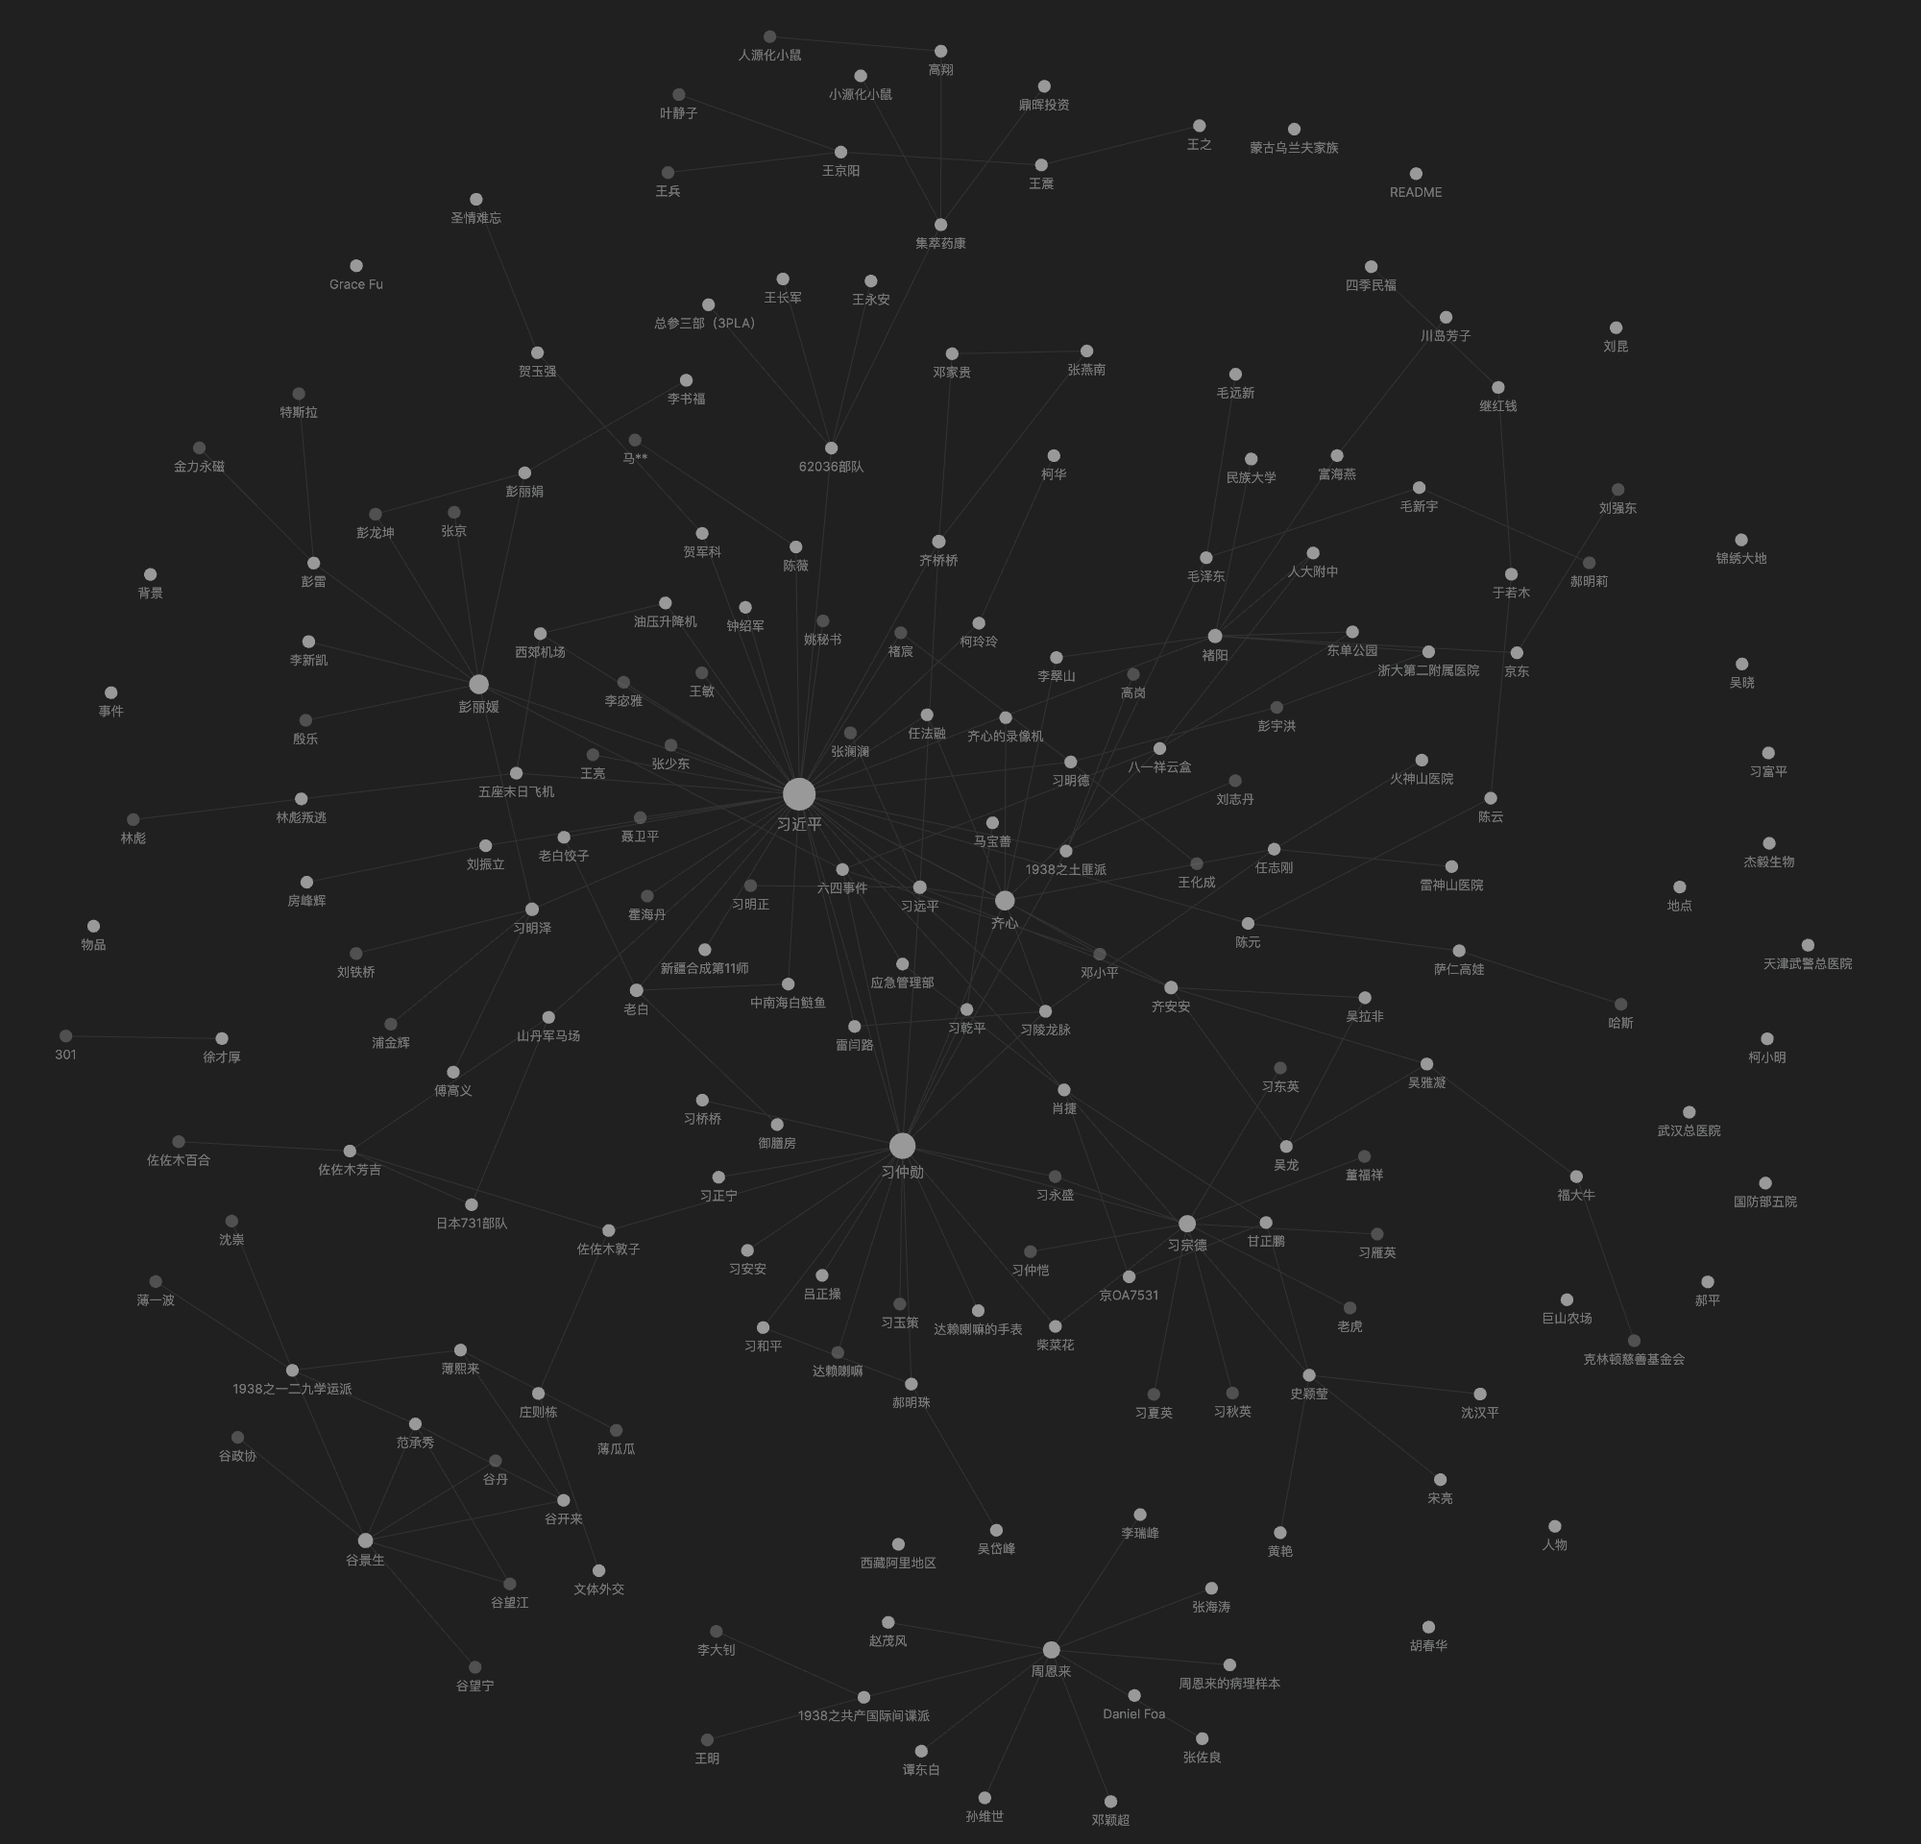
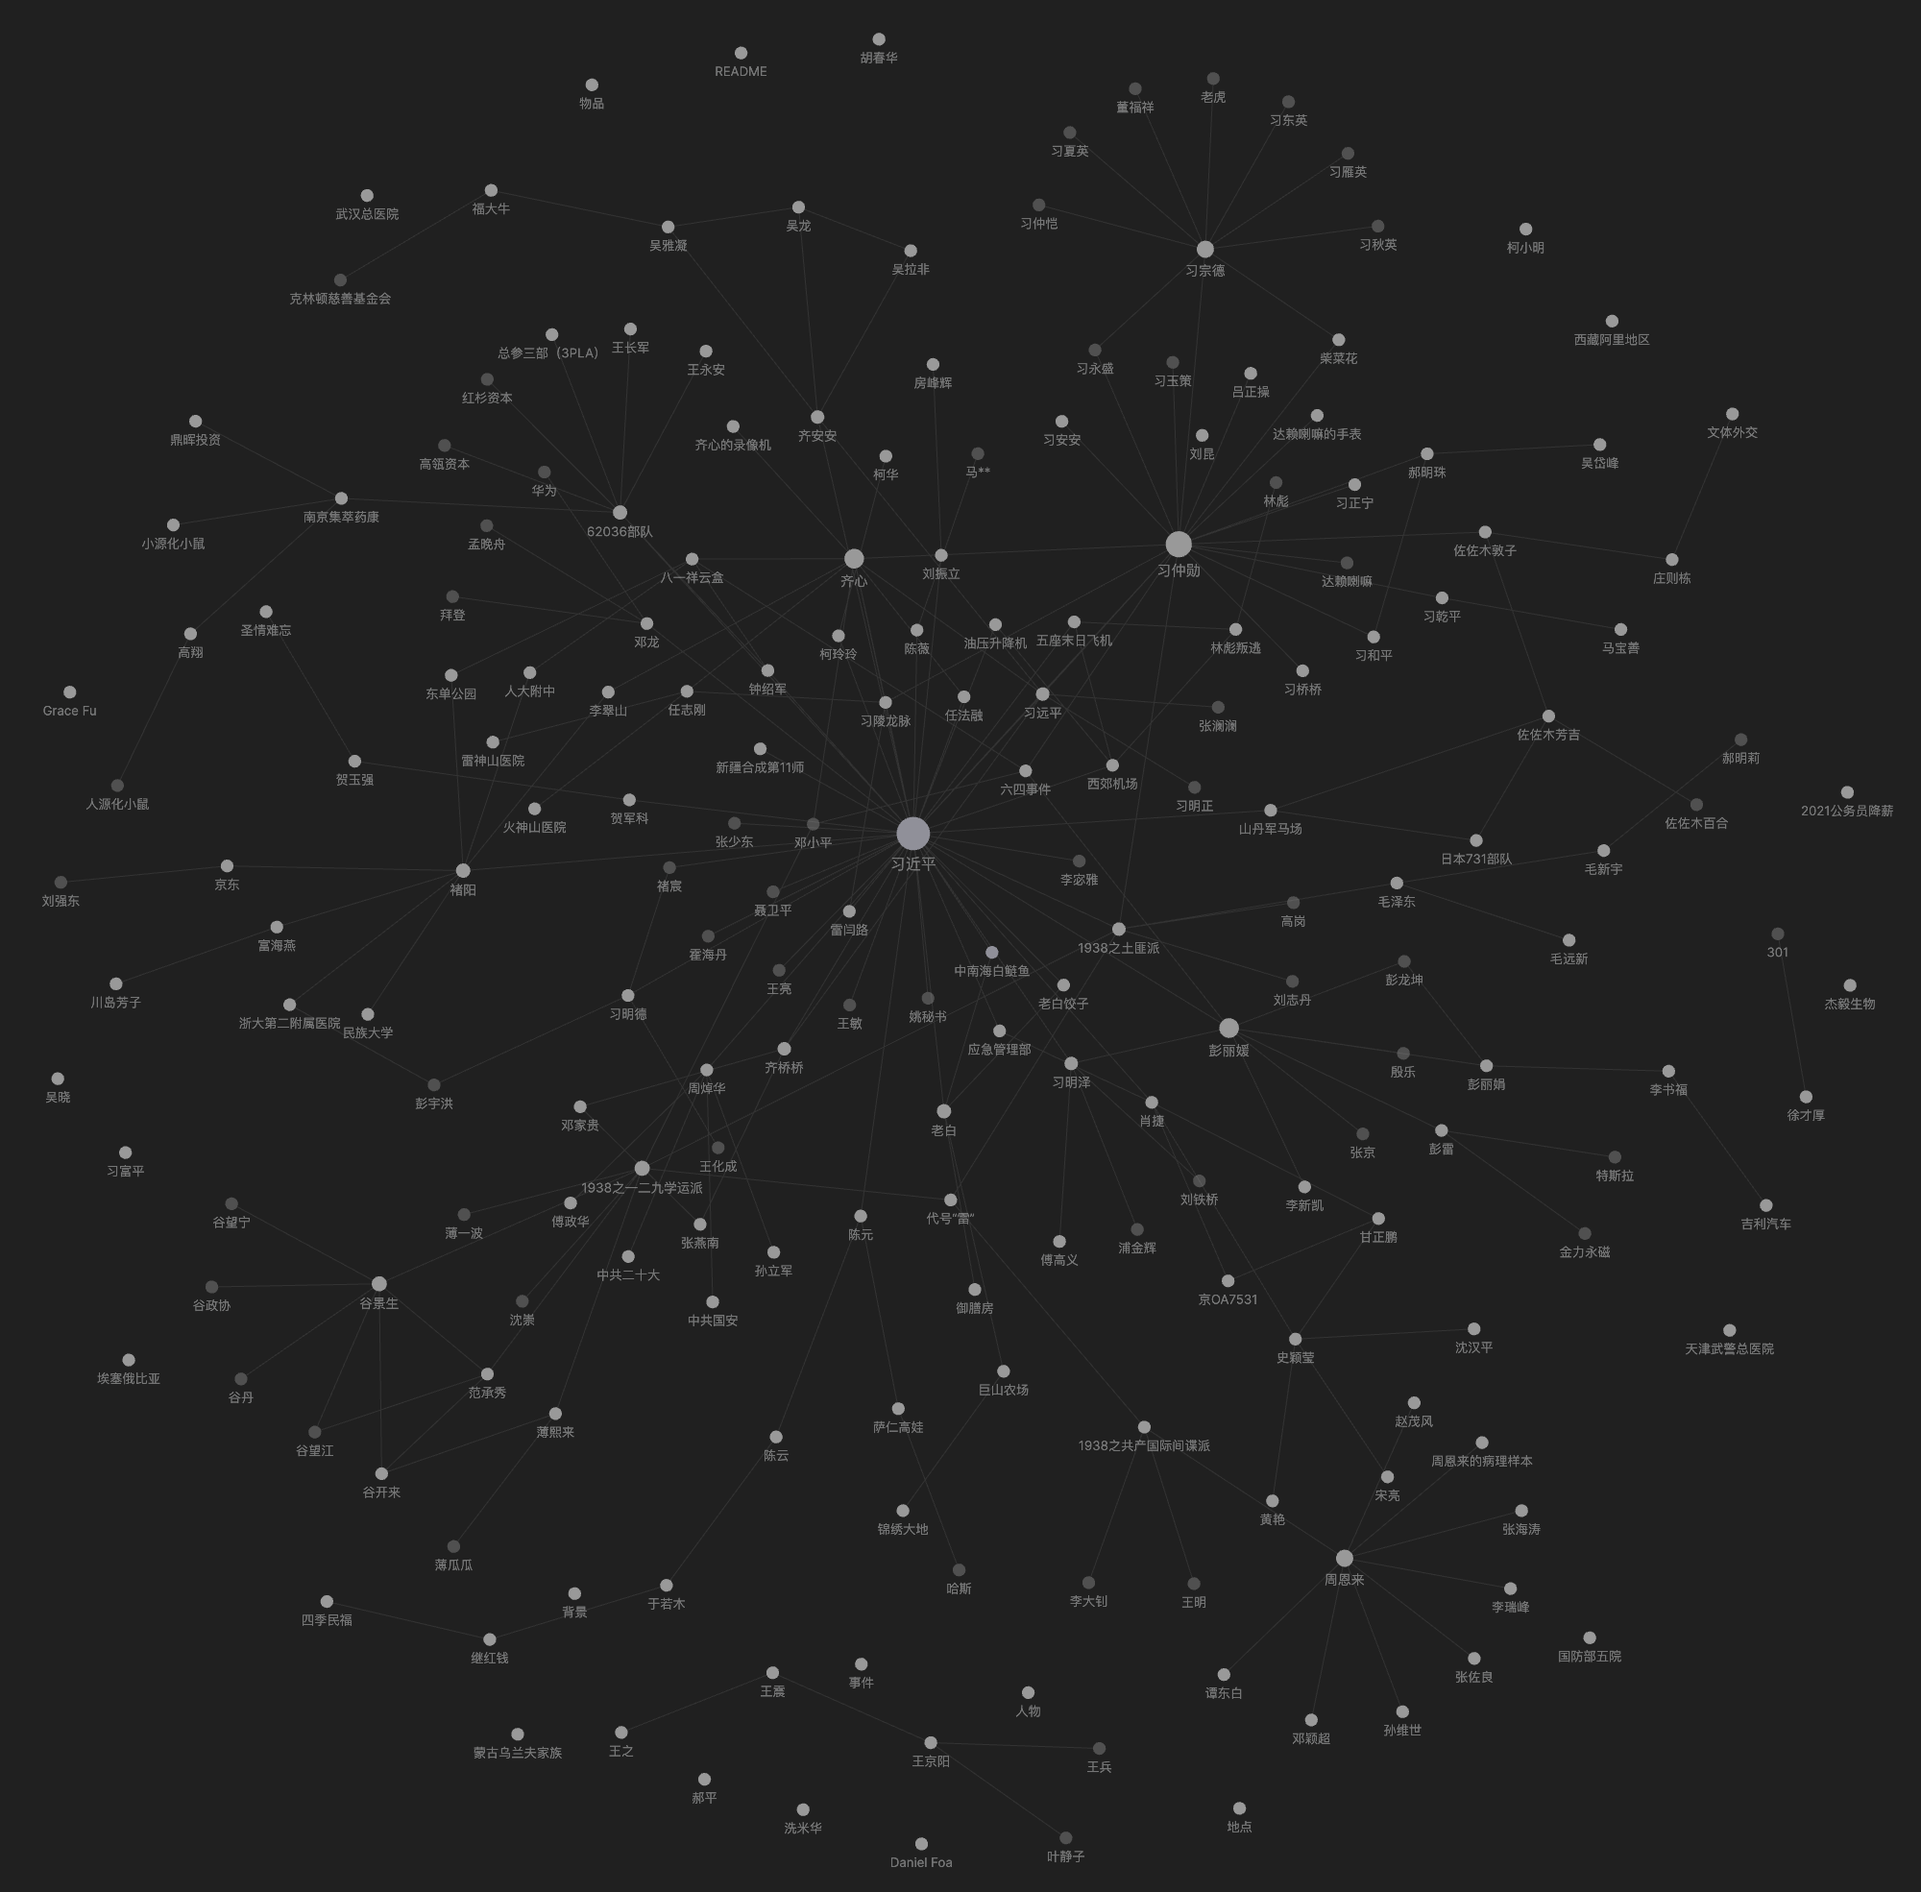
add

diff --git a/背景/62036部队.md b/背景/62036部队.md
@@ -1,0 +1,28 @@
+标签： #背景
+
+姓名：
+62036部队
+
+背景：
+- 61 - 总参，62 - 总后
+- 中共的“生化部队”——战略支援部队特色医学中心
+
+描述：
+
+社会关系：
+- 由[[钟绍军]]直接领导，以便向[[习近平]]直接请示
+- 卫生勤务部长[[王长军]]
+- 毒理和生化药理研究室主任[[王永安]]
+- 包含范围：
+	- 十一个所
+	- 一个动物中心
+	- 一个仪器中心
+	- 307医院
+- 股东包含 [[高瓴资本]] [[红杉资本]]
+
+重要事件：
+- 已于2020年被取消番号
+
+重要地点：
+
+其他：

diff --git a/人物/邓龙.md b/人物/邓龙.md
@@ -1,0 +1,18 @@
+标签： #人物
+
+姓名：
+邓龙
+
+背景：
+- 美国龙胜行集团公司、美国中国城超市集团公司及纽约国际影视制作公司董事长兼总裁，还是闽南同乡会会长、美国华人企业家协会创始人之一
+
+描述：
+
+社会关系：
+
+重要事件：
+- 因为[[孟晚舟]]事件，[[华为]]和邓联系，邓与[[习近平]]打招呼，习才与[[拜登]]要求放人
+
+重要地点：
+
+其他：

diff --git a/人物/周焯华.md b/人物/周焯华.md
@@ -1,0 +1,18 @@
+标签： #人物
+
+姓名：
+周焯华
+
+背景：
+- [[中共国安]] 背景 [[傅政华]] [[孙立军]]
+
+描述：
+
+社会关系：
+
+重要事件：
+- 2021年11月29日，VOA爆其被抓。其本质上是通过佯装打击周，进而打击其背后的势力，此正是[[习近平]]借周之口开始[[中共二十大]]前的维稳。
+
+重要地点：
+
+其他：

diff --git a/背景/代号“雷”.md b/背景/代号“雷”.md
@@ -1,0 +1,18 @@
+标签： #背景
+
+姓名：
+代号“雷”
+
+背景：
+- 一个中共体系内的一个小组织，非党员，非红色家族
+
+描述：
+
+社会关系：
+- 曝光[[1938之土匪派]] [[1938之一二九学运派]] [[1938之共产国际间谍派]]
+
+重要事件：
+
+重要地点：
+
+其他：

diff --git a/背景/1938之一二九学运派.md b/背景/1938之一二九学运派.md
@@ -3,12 +3,14 @@
 名称：
 1938之一二九学运派
 
-来历：
+描述：
+没有明确的民主社会理想，只求社会平衡以便自己捞钱捞名声，但错在相信及屈服于[[1938之土匪派]]
 
 代表：
 - [[谷景生]]
 - [[薄一波]]
 - [[沈崇]]
+- [[邓小平]]
 
 事件：
 

diff --git a/地点/巨山农场.md b/地点/巨山农场.md
@@ -6,10 +6,11 @@ tags: [地点]
 巨山农场
 
 背景：
-- 北京[[巨山农场]]是中南海特贡基地
+- 北京[[巨山农场]]是中南海特贡基地，由[[锦绣大地]]负责打理
 
 相关事件：
 
 位置信息：
 
 其他：
+- [[老白]]

diff --git a/背景/总参三部（3PLA）.md b/背景/总参三部（3PLA）.md
@@ -1,16 +1,14 @@
-标签： #人物
+标签： #背景
 
 姓名：
-谷开来
+总参三部（3PLA）
 
 背景：
 
 描述：
 
 社会关系：
-- 父亲[[谷景生]]
-- 母亲[[范承秀]]
-- 配偶[[薄熙来]]
+- [[62036部队]]
 
 重要事件：
 

diff --git a/背景/鼎晖投资.md b/背景/鼎晖投资.md
@@ -1,17 +1,14 @@
----
-tags: [人物]
----
+标签： #背景 
 
 姓名：
-日本731部队
+鼎晖投资
 
 背景：
 
 描述：
 
 社会关系：
-- [[山丹军马场]]
-- [[佐佐木芳吉]]
+- 投资[[南京集萃药康]]
 
 重要事件：
 

diff --git a/背景/天津武警总医院.md b/背景/天津武警总医院.md
@@ -1,16 +1,13 @@
-标签： #人物
+标签： #背景
 
 姓名：
-谷开来
+天津武警总医院
 
 背景：
 
 描述：
 
 社会关系：
-- 父亲[[谷景生]]
-- 母亲[[范承秀]]
-- 配偶[[薄熙来]]
 
 重要事件：
 

diff --git a/背景/中共国安.md b/背景/中共国安.md
@@ -1,16 +1,13 @@
-标签： #人物
+标签： #背景
 
 姓名：
-谷开来
+中共国安
 
 背景：
 
 描述：
 
 社会关系：
-- 父亲[[谷景生]]
-- 母亲[[范承秀]]
-- 配偶[[薄熙来]]
 
 重要事件：
 

diff --git a/背景/杰毅生物.md b/背景/杰毅生物.md
@@ -1,16 +1,13 @@
-标签： #人物
+标签： #背景
 
 姓名：
-谷开来
+杰毅生物
 
 背景：
 
 描述：
 
 社会关系：
-- 父亲[[谷景生]]
-- 母亲[[范承秀]]
-- 配偶[[薄熙来]]
 
 重要事件：
 

diff --git a/事件/2021公务员降薪.md b/事件/2021公务员降薪.md
@@ -1,12 +1,11 @@
 标签： #事件
 
 名称：
-林彪叛逃
+2021公务员降薪
 
 时间：
 
 人物：
-- [[林彪]]
 
 地点：
 
@@ -15,5 +14,3 @@
 物品：
 
 其他：
-- [[五座末日飞机]]
-- [[西郊机场]]
